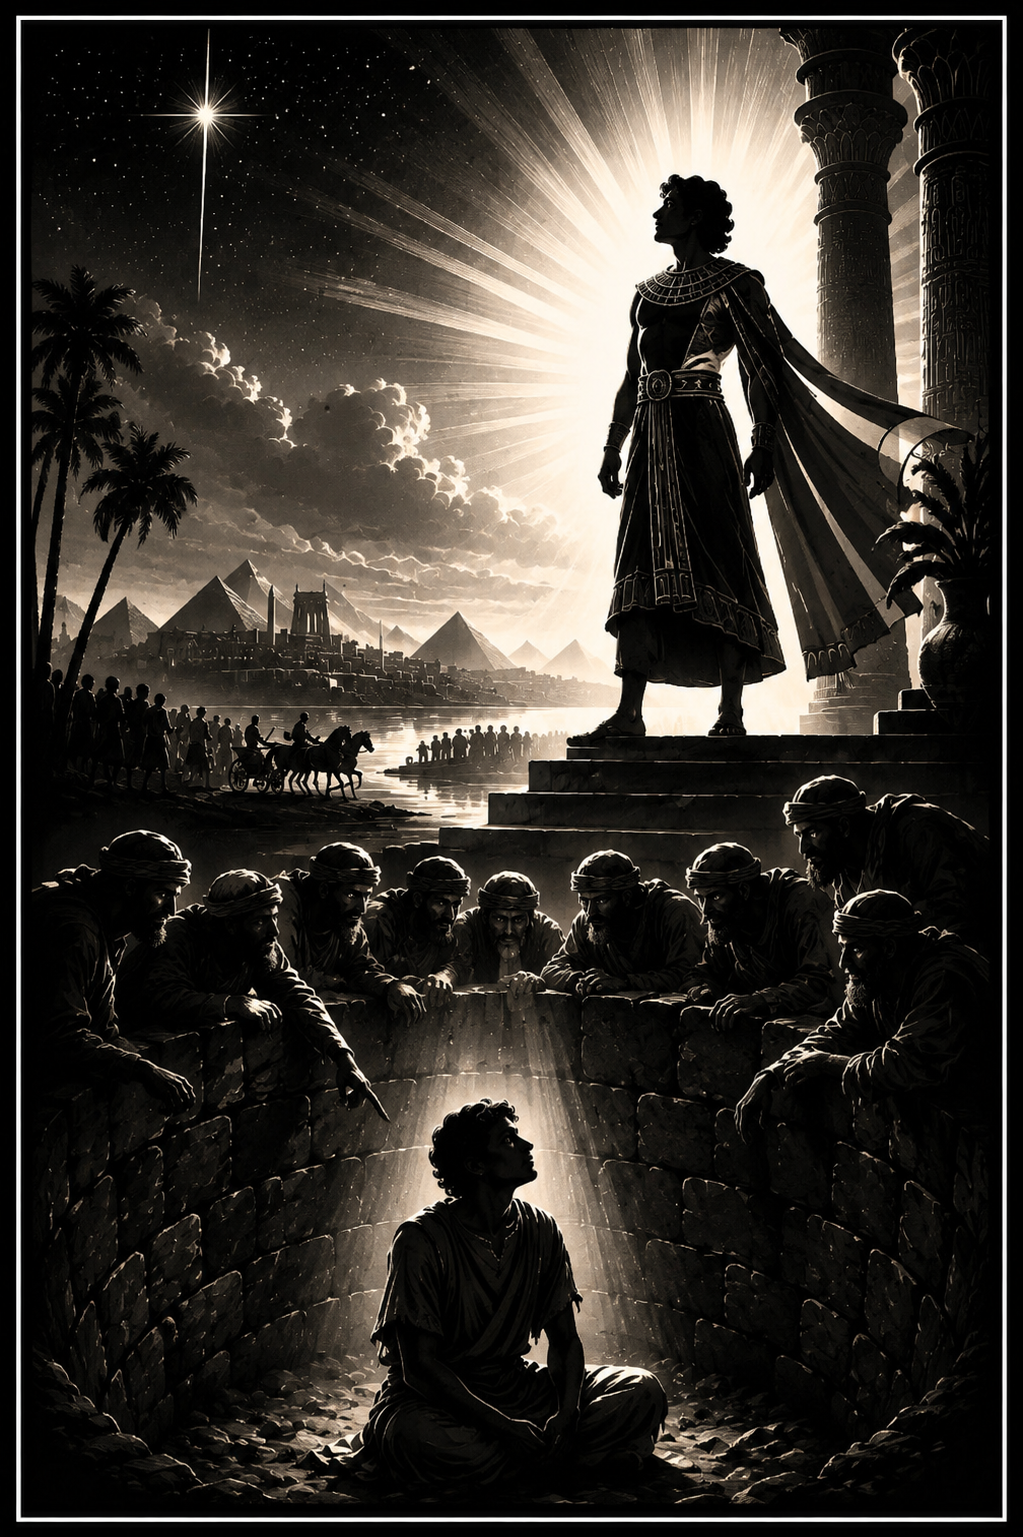
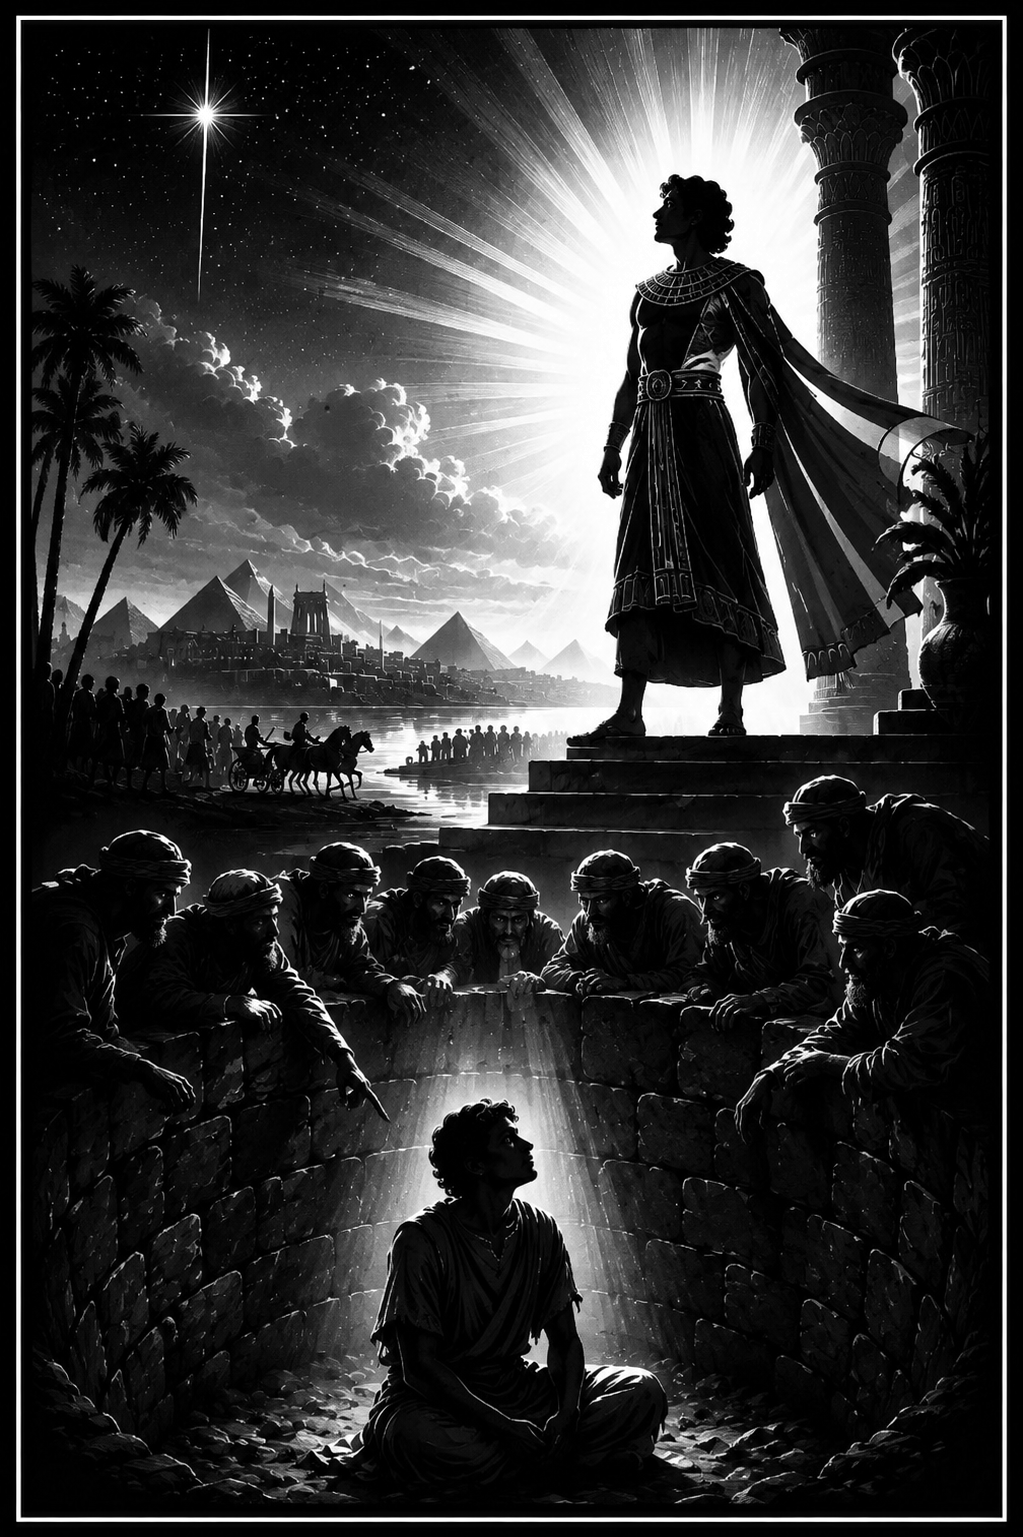
Homepage/landing-page cleanup: trust card, real pricing, consistent covers
- Replaced the bare trust-strip line with a proper card next to the
  hero, explaining what ESV means and what auto-graded/offline
  actually does, instead of unexplained abbreviations.
- Updated pricing to real values: $29.99/month, $249/year (~31% off),
  plus a new third tier, a one-time $49.99 PDF-only purchase with a
  red border and a PDF file icon to set it apart from the two
  subscription tiers.
- Removed the "Level 1 / N Adventures / ..." tag row from both book
  landing pages.
- Normalized all book cover art to true black-and-white/silver
  grayscale (added code/normalize_cover.py so this is automatic for
  future covers instead of a one-off manual fix) - the Jacob to
  Joseph cover had a golden/yellow cast before this.
- Removed the last "random" colored book-cover border (blue, on the
  Jacob to Joseph landing page) in favor of the site's signature
  charcoal border, matching Creation to Isaac's page.

diff --git a/index.html b/index.html
@@ -58,6 +58,12 @@
   .hero h1 .hl{color:var(--org);}
   .hero p{max-width:70ch;margin:20px auto 0;color:var(--slate);font-size:17px;line-height:1.65;}
   .hero-cta{margin-top:30px;display:flex;gap:12px;justify-content:center;flex-wrap:wrap;}
+  .trust-card{max-width:660px;margin:36px auto 0;background:var(--paper);border:1px solid var(--rule);border-radius:16px;padding:22px 26px;text-align:left;}
+  .trust-grid{display:grid;grid-template-columns:repeat(auto-fit,minmax(250px,1fr));gap:16px 26px;}
+  .trust-item{display:flex;gap:11px;align-items:flex-start;}
+  .trust-ic{flex:0 0 auto;font-size:19px;line-height:1.3;}
+  .trust-item b{display:block;font-size:14px;color:var(--ink);}
+  .trust-item span{display:block;font-size:12.5px;color:var(--slate);line-height:1.5;margin-top:2px;}
   .btn{display:inline-block;padding:13px 26px;border-radius:12px;font-weight:700;font-size:15px;text-decoration:none;}
   .btn-gold{background:var(--org);color:#fff;}
   .btn-ghost{background:transparent;border:1.5px solid var(--ink);color:var(--ink);}
@@ -104,9 +110,11 @@
 
   /* Pricing */
   .pricing{width:100%;max-width:var(--page-max);margin:0 auto;padding:56px var(--content-gutter) 20px;}
-  .price-grid{display:grid;grid-template-columns:repeat(auto-fit,minmax(260px,1fr));gap:22px;max-width:720px;margin:34px auto 0;}
-  .price-card{position:relative;background:var(--paper);border:1.5px solid var(--rule);border-radius:18px;padding:28px 26px;text-align:center;}
+  .price-grid{display:grid;grid-template-columns:repeat(auto-fit,minmax(260px,1fr));gap:22px;max-width:980px;margin:34px auto 0;}
+  .price-card{position:relative;background:var(--paper);border:1.5px solid var(--rule);border-radius:18px;padding:28px 26px;text-align:center;display:flex;flex-direction:column;}
   .price-card.featured{border-color:var(--org);box-shadow:0 16px 34px rgba(41,45,46,.12);}
+  .price-card.pdf-tier{border-color:#D64545;}
+  .price-pdf-ic{width:44px;height:44px;margin:0 auto 12px;border-radius:12px;background:#FDECEC;color:#D64545;display:flex;align-items:center;justify-content:center;}
   .price-badge{position:absolute;top:-13px;left:50%;transform:translateX(-50%);background:var(--org);color:#fff;font-size:11px;font-weight:800;letter-spacing:.05em;text-transform:uppercase;padding:5px 14px;border-radius:99px;white-space:nowrap;}
   .price-plan{font-size:13px;font-weight:700;letter-spacing:.06em;text-transform:uppercase;color:var(--slate);}
   .price-amt{font-family:'Playfair Display',serif;font-weight:900;font-size:40px;color:var(--ink);margin:10px 0 2px;}
@@ -224,6 +232,26 @@
     <a class="btn btn-gold" href="genesis-creation-to-babel.html" data-ko="창세기로 시작하기 →">Start with Genesis →</a>
     <a class="btn btn-ghost" href="index.html#library" data-ko="라이브러리 보기">See the Library</a>
   </div>
+  <div class="trust-card">
+    <div class="trust-grid">
+      <div class="trust-item">
+        <span class="trust-ic">📖</span>
+        <div><b data-ko="ESV 성경 기준">Keyed to the ESV</b><span data-ko="ESV(잉글리시 스탠다드 버전)는 널리 쓰이는 현대 영어 성경 번역본입니다. 모든 워크북은 이 번역을 기준으로 만들어졌습니다.">The ESV (English Standard Version) is a widely used, modern English Bible translation. Every workbook is built to match it.</span></div>
+      </div>
+      <div class="trust-item">
+        <span class="trust-ic">✅</span>
+        <div><b data-ko="자동 채점, 오프라인 이용 가능">Auto-graded, works offline</b><span data-ko="답을 제출하면 그 자리에서 바로 채점 결과를 확인할 수 있고, 페이지를 한 번 불러온 뒤에는 인터넷 연결 없이도 계속 풀 수 있습니다.">Check your answers instantly as you go, and keep working with no internet connection once a page has loaded.</span></div>
+      </div>
+      <div class="trust-item">
+        <span class="trust-ic">🌍</span>
+        <div><b data-ko="실제 지역, 고고학, 고대 생활상">Real places, archaeology &amp; ancient life</b><span data-ko="모든 파트에는 줄거리뿐 아니라 그 본문이 속한 실제 세계를 알려주는 지식 박스가 담겨 있습니다.">Every part includes a knowledge box on the real world behind the passage, not just the story.</span></div>
+      </div>
+      <div class="trust-item">
+        <span class="trust-ic">⛪</span>
+        <div><b data-ko="독립적인 학습 자료">Independent study resource</b><span data-ko="특정 출판사와 제휴하거나 그로부터 공인받지 않은 독립적인 자료입니다.">Not affiliated with or endorsed by any Bible publisher.</span></div>
+      </div>
+    </div>
+  </div>
 </header>
 </div>
 
@@ -247,15 +275,6 @@
   </div>
 </section>
 
-<div class="trust">
-  <div class="trust-in">
-    <span data-ko="📖 ESV 성경 기준">📖 Keyed to the ESV</span>
-    <span data-ko="✅ 자동 채점, 오프라인 이용 가능">✅ Auto-graded, works offline</span>
-    <span data-ko="🌍 모든 파트에 실제 지역, 고고학, 고대 생활상 수록">🌍 Real places, archaeology &amp; ancient life in every part</span>
-    <span data-ko="⛪ 독립적인 학습 자료 — 특정 출판사와 제휴하지 않음">⛪ Independent study resource — not affiliated with any publisher</span>
-  </div>
-</div>
-
 <section class="pricing" id="pricing">
   <div class="lib-head">
     <h2 data-ko="구독하기">Subscribe</h2>
@@ -264,26 +283,38 @@
   <div class="price-grid">
     <div class="price-card">
       <div class="price-plan" data-ko="월간">Monthly</div>
-      <div class="price-amt">$39.99<span data-ko="/월"> /month</span></div>
+      <div class="price-amt">$29.99<span data-ko="/월"> /month</span></div>
       <div class="price-note" data-ko="언제든 취소 가능">Cancel anytime</div>
       <ul class="price-feats">
         <li data-ko="모든 성경 권 무제한 이용">Unlimited access to all books of the Bible</li>
         <li data-ko="오프라인·인쇄용 PDF 포함">PDF included, for offline &amp; print use</li>
         <li data-ko="계정당 3개 기기">3 devices per account</li>
       </ul>
-      <a class="btn btn-ghost" href="#pricing" style="width:100%;text-align:center;" data-ko="구독하기">Subscribe</a>
+      <a class="btn btn-ghost" href="#pricing" style="width:100%;text-align:center;margin-top:auto;" data-ko="구독하기">Subscribe</a>
     </div>
     <div class="price-card featured">
       <div class="price-badge" data-ko="가장 알뜰한 선택">Best value</div>
       <div class="price-plan" data-ko="연간">Yearly</div>
-      <div class="price-amt">$399<span data-ko="/년"> /year</span></div>
-      <div class="price-note" data-ko="월간 대비 약 17% 절약">About 17% less than paying monthly</div>
+      <div class="price-amt">$249<span data-ko="/년"> /year</span></div>
+      <div class="price-note" data-ko="월간 대비 약 31% 절약">About 31% less than paying monthly</div>
       <ul class="price-feats">
         <li data-ko="모든 성경 권 무제한 이용">Unlimited access to all books of the Bible</li>
         <li data-ko="오프라인·인쇄용 PDF 포함">PDF included, for offline &amp; print use</li>
         <li data-ko="계정당 3개 기기">3 devices per account</li>
       </ul>
-      <a class="btn btn-gold" href="#pricing" style="width:100%;text-align:center;" data-ko="구독하기">Subscribe</a>
+      <a class="btn btn-gold" href="#pricing" style="width:100%;text-align:center;margin-top:auto;" data-ko="구독하기">Subscribe</a>
+    </div>
+    <div class="price-card pdf-tier">
+      <div class="price-pdf-ic"><svg width="22" height="22" viewBox="0 0 24 24" fill="none" xmlns="http://www.w3.org/2000/svg" aria-hidden="true"><path d="M6 2H14L19 7V21C19 21.5523 18.5523 22 18 22H6C5.44772 22 5 21.5523 5 21V3C5 2.44772 5.44772 2 6 2Z" stroke="currentColor" stroke-width="1.6" stroke-linejoin="round"/><path d="M14 2V7H19" stroke="currentColor" stroke-width="1.6" stroke-linejoin="round"/><text x="12" y="17.6" font-family="Arial, sans-serif" font-size="6.4" font-weight="800" fill="currentColor" text-anchor="middle">PDF</text></svg></div>
+      <div class="price-plan" data-ko="PDF 단품">PDF only</div>
+      <div class="price-amt">$49.99<span data-ko="/PDF"> /PDF</span></div>
+      <div class="price-note" data-ko="구독 없이 한 번만 결제">One-time purchase, no subscription</div>
+      <ul class="price-feats">
+        <li data-ko="한 권 전체를 담은 PDF">The complete PDF for one book</li>
+        <li data-ko="다운로드 후 소장 가능">Yours to download and keep</li>
+        <li data-ko="인쇄 및 오프라인 사용">Print or read offline anytime</li>
+      </ul>
+      <a class="btn btn-ghost" href="#pricing" style="width:100%;text-align:center;border-color:#D64545;color:#D64545;margin-top:auto;" data-ko="PDF 구매하기">Buy the PDF</a>
     </div>
   </div>
 </section>
@@ -303,7 +334,7 @@
     <div class="cat-grid">
 
       <a class="cat-card cat-avail" href="genesis-creation-to-babel.html">
-        <div class="cat-cover" style="--bc:#FFDA70;">
+        <div class="cat-cover" style="--bc:#F5F4F0;">
           <span class="snum">1</span>
           <img class="cat-cover-img" src="covers/Genesis_Creation_to_Babel_Book_Cover.png" alt="Genesis: Creation to Isaac — Genesis 1–23" data-ko-alt="창세기: 창조부터 이삭까지 — 창세기 1~23장">
         </div>
@@ -314,7 +345,7 @@
       </a>
 
       <a class="cat-card cat-soon" href="genesis-abraham-to-joseph.html" title="In development">
-        <div class="cat-cover" style="--bc:#70CCFF;">
+        <div class="cat-cover" style="--bc:#F5F4F0;">
           <img class="cat-cover-img" src="covers/Genesis_Jacob_to_Joseph_Book_Cover.png" alt="Genesis: Jacob to Joseph — Genesis 24–50" data-ko-alt="창세기: 야곱부터 요셉까지 — 창세기 24~50장">
           <div class="cat-soon-tag" data-ko="제작 중">In development</div>
         </div>

diff --git a/genesis-abraham-to-joseph.html b/genesis-abraham-to-joseph.html
@@ -54,7 +54,7 @@
   .crumb a:hover{color:var(--ink);}
 
   .vhero{width:100%;max-width:var(--page-max);margin:0 auto;padding:26px var(--content-gutter) 50px;display:grid;grid-template-columns:clamp(260px,20vw,380px) minmax(0,1fr);gap:clamp(36px,4vw,80px);align-items:start;}
-  .vcover{border-radius:14px;overflow:hidden;box-shadow:0 20px 40px rgba(41,45,46,.18);border:6px solid var(--acc);aspect-ratio:2/3;display:flex;flex-direction:column;align-items:center;justify-content:center;text-align:center;padding:20px;background:var(--acc);}
+  .vcover{border-radius:14px;overflow:hidden;box-shadow:0 20px 40px rgba(41,45,46,.18);border:6px solid var(--ink);}
   .vcover-t{font-family:'Playfair Display',serif;font-weight:900;font-size:clamp(24px,3vw,30px);color:var(--ink);}
   .vcover-r{width:48px;height:3px;background:var(--ink);opacity:.35;margin:16px 0;}
   .vcover-s{font-size:15px;font-weight:700;color:var(--ink);opacity:.85;}
@@ -153,12 +153,6 @@
     <div class="veyebrow" data-ko="구약성경 &middot; 2권">Old Testament &middot; Volume 2</div>
     <h1 data-ko="창세기: 야곱부터 요셉까지">Genesis: Jacob to Joseph</h1>
     <div class="vsub" data-ko="창세기 24~50장 &middot; ESV 성경 기준 예정">Genesis 24&ndash;50 &middot; keyed to the ESV</div>
-    <div class="vmeta">
-      <span class="vtag" data-ko="레벨 1">Level 1</span>
-      <span class="vtag" data-ko="6개 어드벤처">6 Adventures</span>
-      <span class="vtag" data-ko="파트별 4개의 Treasure Wisdom 박스 예정">4 Treasure Wisdom boxes per part</span>
-      <span class="vtag" data-ko="현재 제작 중">In development</span>
-    </div>
     <p class="vdesc" data-ko="여섯 개의 어드벤처를 통해 아이는 이삭이 아내를 맞이하는 순간부터 요셉이 이집트에서 높은 자리에 오르고 그의 가족이 이집트에 도착하기까지의 이야기를 따라갑니다. 각 어드벤처는 이야기와 함께 영어 어휘·독해 워크북, 그리고 매번 바뀌는 Treasure Wisdom 영역(실제 지역, 고고학, 고대 생활상)을 제공할 예정입니다. 이 권은 현재 제작 중이며, 아래 여섯 개의 어드벤처는 예정된 순서대로 표시되어 있습니다.">Six adventures carry a child from Isaac finding a wife through Joseph's rise in Egypt and his family's arrival there. Every adventure will pair the story with an English vocabulary and comprehension workbook and one rotating Treasure Wisdom domain &mdash; real places, archaeology and ancient daily life. This volume is currently in development; the six adventures below are shown in their planned order.</p>
     <div class="vcta">
       <a class="btn btn-gold" href="#parts" data-ko="6개 파트 모두 보기 →">Browse all six parts →</a>

diff --git a/genesis-creation-to-babel.html b/genesis-creation-to-babel.html
@@ -160,12 +160,6 @@
     <div class="veyebrow" data-ko="구약성경 &middot; 1권">Old Testament &middot; Volume 1</div>
     <h1 data-ko="창세기: 창조부터 이삭까지">Genesis: Creation to Isaac</h1>
     <div class="vsub" data-ko="창세기 1~23장 &middot; ESV 성경 기준">Genesis 1&ndash;23 &middot; keyed to the ESV</div>
-    <div class="vmeta">
-      <span class="vtag" data-ko="레벨 1">Level 1</span>
-      <span class="vtag" data-ko="8개 어드벤처">8 Adventures</span>
-      <span class="vtag" data-ko="파트별 4개의 Treasure Wisdom 박스">4 Treasure Wisdom boxes per part</span>
-      <span class="vtag" data-ko="SAT/TOEFL 독해 연습 포함">Includes SAT/TOEFL reading practice</span>
-    </div>
     <p class="vdesc" data-ko="여덟 개의 어드벤처를 통해 아이는 창조에서부터 에덴동산, 홍수, 바벨탑, 그리고 아브라함과 이삭의 이야기까지 따라갑니다. 각 어드벤처는 이야기와 함께 영어 어휘·독해 워크북, 그리고 매번 바뀌는 Treasure Wisdom 영역(실제 지역, 고고학, 고대 생활상)을 함께 제공하여, 아이가 줄거리뿐 아니라 그 본문이 속한 세계까지 알게 됩니다.">Eight adventures carry a child from creation through the garden, the flood, the tower of Babel, and on into the stories of Abraham and Isaac. Every adventure pairs the story with an English vocabulary and comprehension workbook and one rotating Treasure Wisdom domain &mdash; real places, archaeology and ancient daily life &mdash; so a child comes away knowing the world of the passage, not just the plot.</p>
     <div class="vcta">
       <a class="btn btn-gold" href="Genesis_Creation_to_Babel/Genesis_Creation_to_Babel_Part1_Workbook.html" data-ko="1파트 무료로 시작하기 →">Start Part 1 — free →</a>
